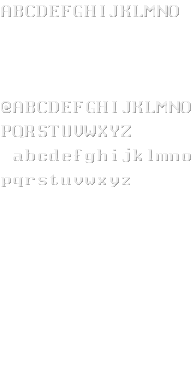
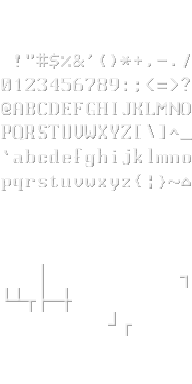
infinite font variations for testing - huge wip

diff --git a/src/gui/mod.rs b/src/gui/mod.rs
@@ -84,7 +84,8 @@ pub fn draw_lerping_bar(
     n: i32,
     max: i32,
     full_colour: RGB,
-    empty_colour: RGB
+    empty_colour: RGB,
+    with_text: bool
 ) {
     let percent = (n as f32) / (max as f32);
     let fill_width = (percent * (width as f32)) as i32;
@@ -92,15 +93,15 @@ pub fn draw_lerping_bar(
     let fg = RGB::named(rltk::BLACK);
     for x in 0..width {
         if x <= fill_width {
-            ctx.print_color(sx + x, sy, fg, bg, " ");
-        } else {
-            ctx.print_color(sx + x, sy, RGB::named(rltk::BLACK), RGB::named(rltk::BLACK), " ");
+            ctx.set(sx + x, sy, fg, bg, to_cp437(' '));
         }
     }
-    ctx.print(sx - 1, sy, "[");
-    let health = format!("{}/{}", n, max);
-    ctx.print_color(sx + 1, sy, fg, bg, health);
-    ctx.print(sx + width, sy, "]");
+    if with_text {
+        ctx.print(sx - 1, sy, "[");
+        let health = format!("{}/{}", n, max);
+        ctx.print_color(sx + 1, sy, fg, bg, health);
+        ctx.print(sx + width, sy, "]");
+    }
 }
 
 pub const TEXT_FONT_MOD: i32 = 2;
@@ -130,7 +131,8 @@ pub fn draw_ui(ecs: &World, ctx: &mut Rltk) {
             stats.hit_points.current,
             stats.hit_points.max,
             RGB::from_u8(0, 255, 0),
-            RGB::from_u8(255, 0, 0)
+            RGB::from_u8(255, 0, 0),
+            true
         );
         draw_lerping_bar(
             ctx,
@@ -140,7 +142,8 @@ pub fn draw_ui(ecs: &World, ctx: &mut Rltk) {
             stats.mana.current,
             stats.mana.max,
             RGB::named(rltk::BLUE),
-            RGB::named(rltk::BLACK)
+            RGB::named(rltk::BLACK),
+            true
         );
         // Draw AC
         let skill_ac_bonus = gamesystem::skill_bonus(Skill::Defence, &*skills);
@@ -422,7 +425,7 @@ pub fn draw_ui(ecs: &World, ctx: &mut Rltk) {
                     &format!("{}", index)
                 );
                 ctx.print_color(
-                    (VIEWPORT_W + 3) * TEXT_FONT_MOD + 1,
+                    (VIEWPORT_W + 3) * TEXT_FONT_MOD + 2,
                     y,
                     RGB::named(CYAN),
                     RGB::named(BLACK),
@@ -496,7 +499,7 @@ pub fn draw_ui(ecs: &World, ctx: &mut Rltk) {
                     entity.3
                 );
                 ctx.print_color(
-                    (VIEWPORT_W + 3) * TEXT_FONT_MOD + 1,
+                    (VIEWPORT_W + 3) * TEXT_FONT_MOD + 2,
                     y,
                     entity.1,
                     RGB::named(rltk::BLACK),

diff --git a/src/main.rs b/src/main.rs
@@ -8,23 +8,29 @@ const DISPLAYHEIGHT: i32 = 56;
 
 fn main() -> rltk::BError {
     // Embedded resources for use in wasm build
-    const CURSES_16_16_BYTES: &[u8] = include_bytes!("../resources/nagidal24x24.png");
-    const ISHMERIA_8_16_BYTES: &[u8] = include_bytes!("../resources/curses12x24.png");
+    const MAIN_22_20_BYTES: &[u8] = include_bytes!("../resources/nagidal22x20_centred.png");
+    const TEXT_11_20_BYTES: &[u8] = include_bytes!("../resources/curses11x20.png");
+    const SINGLE_1_1_BYTES: &[u8] = include_bytes!("../resources/healthbar22x2.png");
     rltk::embedding::EMBED
         .lock()
-        .add_resource("resources/nagidal24x24.png".to_string(), CURSES_16_16_BYTES);
+        .add_resource("resources/nagidal22x20_centred.png".to_string(), MAIN_22_20_BYTES);
     rltk::embedding::EMBED
         .lock()
-        .add_resource("resources/curses12x24.png".to_string(), ISHMERIA_8_16_BYTES);
+        .add_resource("resources/curses11x20.png".to_string(), TEXT_11_20_BYTES);
+    rltk::embedding::EMBED
+        .lock()
+        .add_resource("resources/healthbar22x2.png".to_string(), SINGLE_1_1_BYTES);
 
     let mut context = RltkBuilder::new()
         .with_title("rust-rl")
         .with_dimensions(DISPLAYWIDTH, DISPLAYHEIGHT)
-        .with_font("nagidal24x24.png", 24, 24)
-        .with_font("curses12x24.png", 12, 24)
-        .with_tile_dimensions(24, 24)
-        .with_simple_console(DISPLAYWIDTH, DISPLAYHEIGHT, "nagidal24x24.png")
-        .with_sparse_console(DISPLAYWIDTH * 2, DISPLAYHEIGHT, "curses12x24.png")
+        .with_font("nagidal22x20_centred.png", 22, 20)
+        .with_font("curses11x20.png", 11, 20)
+        .with_font("healthbar22x2.png", 1, 1)
+        .with_tile_dimensions(22, 20)
+        .with_simple_console(DISPLAYWIDTH, DISPLAYHEIGHT, "nagidal22x20_centred.png")
+        .with_sparse_console(DISPLAYWIDTH * 2, DISPLAYHEIGHT, "curses11x20.png")
+        .with_sparse_console(DISPLAYWIDTH * 22, DISPLAYHEIGHT * 20, "healthbar22x2.png")
         .build()?;
     if config::CONFIG.visuals.with_scanlines {
         context.with_post_scanlines(config::CONFIG.visuals.with_screen_burn);

diff --git a/src/ai/approach_ai_system.rs b/src/ai/approach_ai_system.rs
@@ -39,18 +39,35 @@ impl<'a> System<'a> for ApproachAI {
             &turns,
         ).join() {
             turn_done.push(entity);
-            let target_idxs = if let Some(paths) = get_adjacent_unblocked(&map, approach.idx as usize) {
+            let target_idxs = if
+                let Some(paths) = get_adjacent_unblocked(&map, approach.idx as usize)
+            {
                 paths
             } else {
                 continue;
             };
             let mut path: Option<NavigationPath> = None;
+            let mut curr_abs_diff = 100;
             let idx = map.xy_idx(pos.x, pos.y);
             for tar_idx in target_idxs {
                 let potential_path = rltk::a_star_search(idx, tar_idx, &mut *map);
                 if potential_path.success && potential_path.steps.len() > 1 {
-                    if path.is_none() || potential_path.steps.len() < path.as_ref().unwrap().steps.len() {
+                    if
+                        path.is_none() ||
+                        potential_path.steps.len() < path.as_ref().unwrap().steps.len()
+                    {
                         path = Some(potential_path);
+                        let (x1, y1) = (pos.x, pos.y);
+                        let (x2, y2) = ((tar_idx as i32) % map.width, (tar_idx as i32) / map.width);
+                        curr_abs_diff = i32::abs(x2 - x1) + i32::abs(y2 - y1);
+                    } else if potential_path.steps.len() == path.as_ref().unwrap().steps.len() {
+                        let (x1, y1) = (pos.x, pos.y);
+                        let (x2, y2) = ((tar_idx as i32) % map.width, (tar_idx as i32) / map.width);
+                        let abs_diff = i32::abs(x2 - x1) + i32::abs(y2 - y1);
+                        if abs_diff < curr_abs_diff {
+                            path = Some(potential_path);
+                            curr_abs_diff = abs_diff;
+                        }
                     }
                 }
             }

diff --git a/src/camera.rs b/src/camera.rs
@@ -1,4 +1,4 @@
-use super::{ Hidden, Map, Mind, Position, Prop, Renderable };
+use super::{ Hidden, Map, Mind, Position, Prop, Renderable, Pools };
 use rltk::prelude::*;
 use specs::prelude::*;
 use std::ops::Mul;
@@ -70,6 +70,7 @@ pub fn render_camera(ecs: &World, ctx: &mut Rltk) {
     {
         let positions = ecs.read_storage::<Position>();
         let renderables = ecs.read_storage::<Renderable>();
+        let pools = ecs.read_storage::<Pools>();
         let minds = ecs.read_storage::<Mind>();
         let hidden = ecs.read_storage::<Hidden>();
         let props = ecs.write_storage::<Prop>();
@@ -126,6 +127,23 @@ pub fn render_camera(ecs: &World, ctx: &mut Rltk) {
                         bg,
                         render.glyph
                     );
+                    if let Some(pool) = pools.get(*ent) {
+                        if pool.hit_points.current < pool.hit_points.max {
+                            ctx.set_active_console(2);
+                            crate::gui::draw_lerping_bar(
+                                ctx,
+                                (entity_offset_x + x_offset) * 22 + 2,
+                                (entity_offset_y + y_offset) * 20 - 2,
+                                18,
+                                pool.hit_points.current,
+                                pool.hit_points.max,
+                                RGB::named(GREEN),
+                                RGB::named(RED),
+                                false
+                            );
+                            ctx.set_active_console(0);
+                        }
+                    }
                 }
             }
         }

diff --git a/src/states/state.rs b/src/states/state.rs
@@ -164,6 +164,8 @@ impl GameState for State {
             new_runstate = *runstate;
         }
         // Clear screen
+        ctx.set_active_console(2);
+        ctx.cls();
         ctx.set_active_console(1);
         ctx.cls();
         ctx.set_active_console(0);
@@ -562,6 +564,8 @@ impl GameState for State {
                     new_runstate = self.mapgen_next_state.unwrap();
                 }
                 if self.mapgen_history.len() != 0 {
+                    ctx.set_active_console(2);
+                    ctx.cls();
                     ctx.set_active_console(1);
                     ctx.cls();
                     ctx.set_active_console(0);
